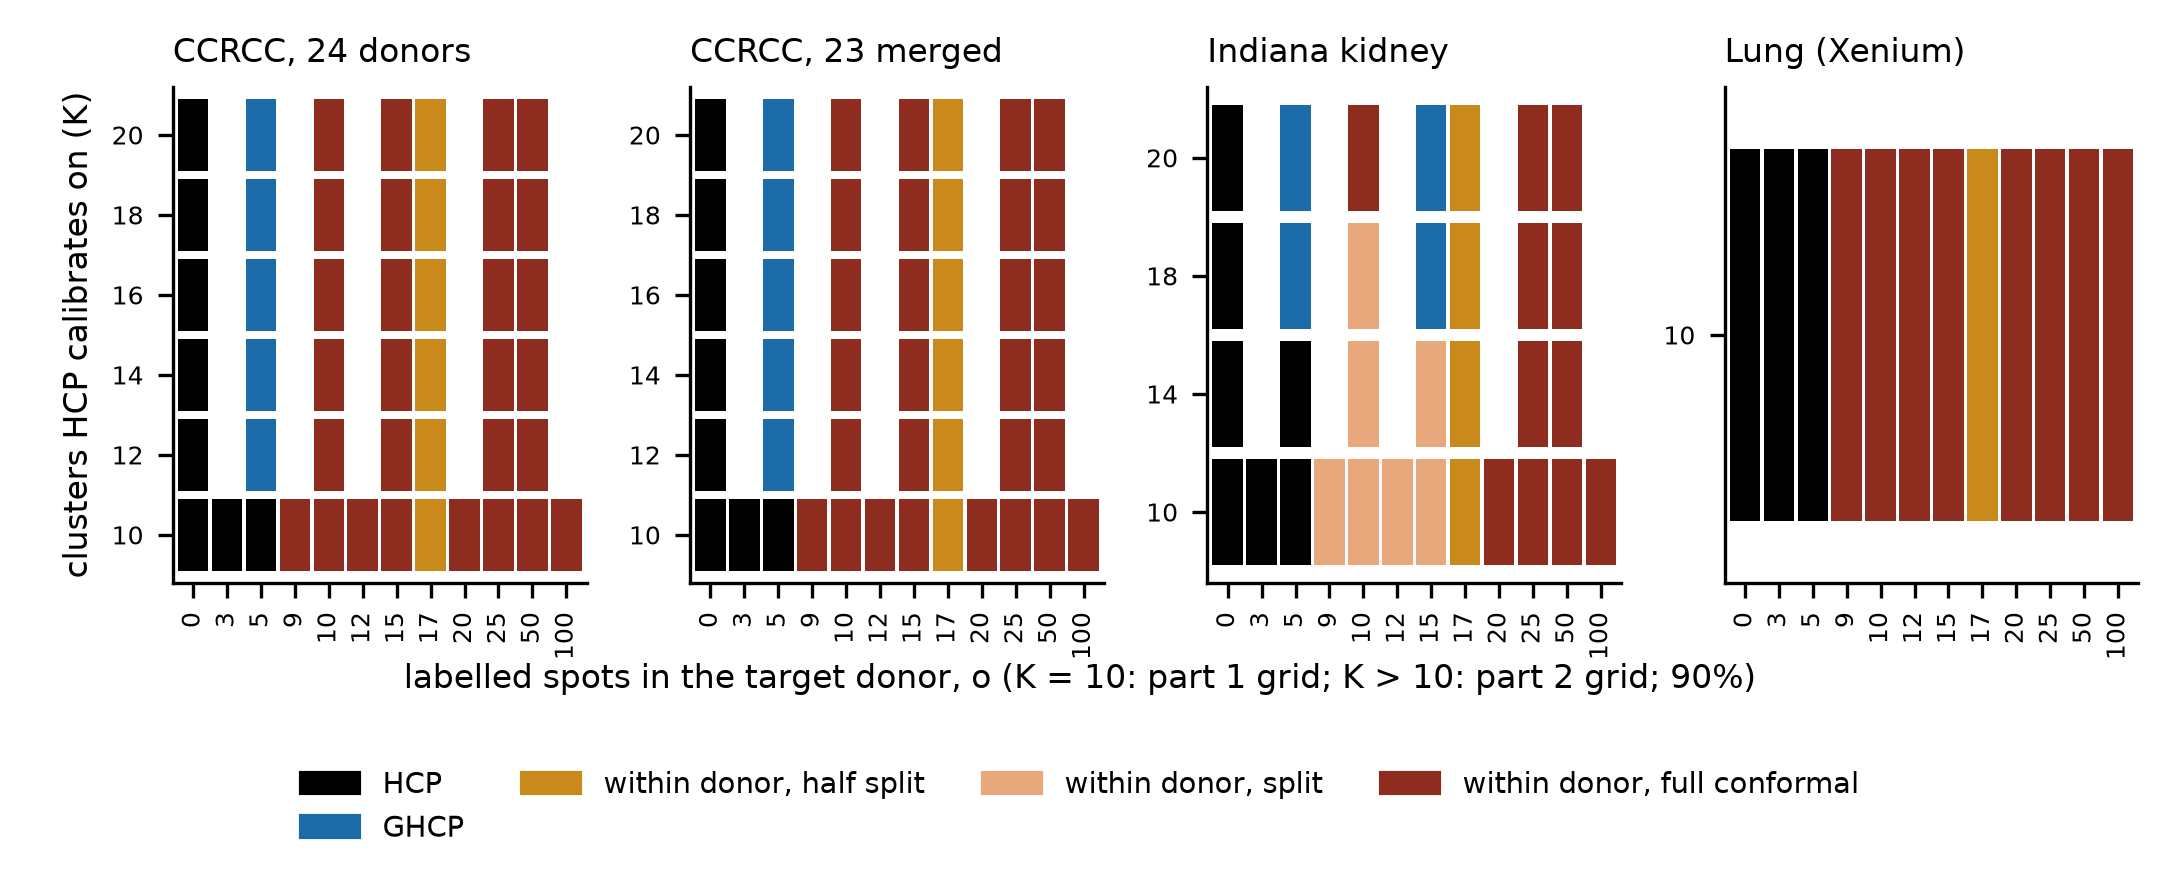
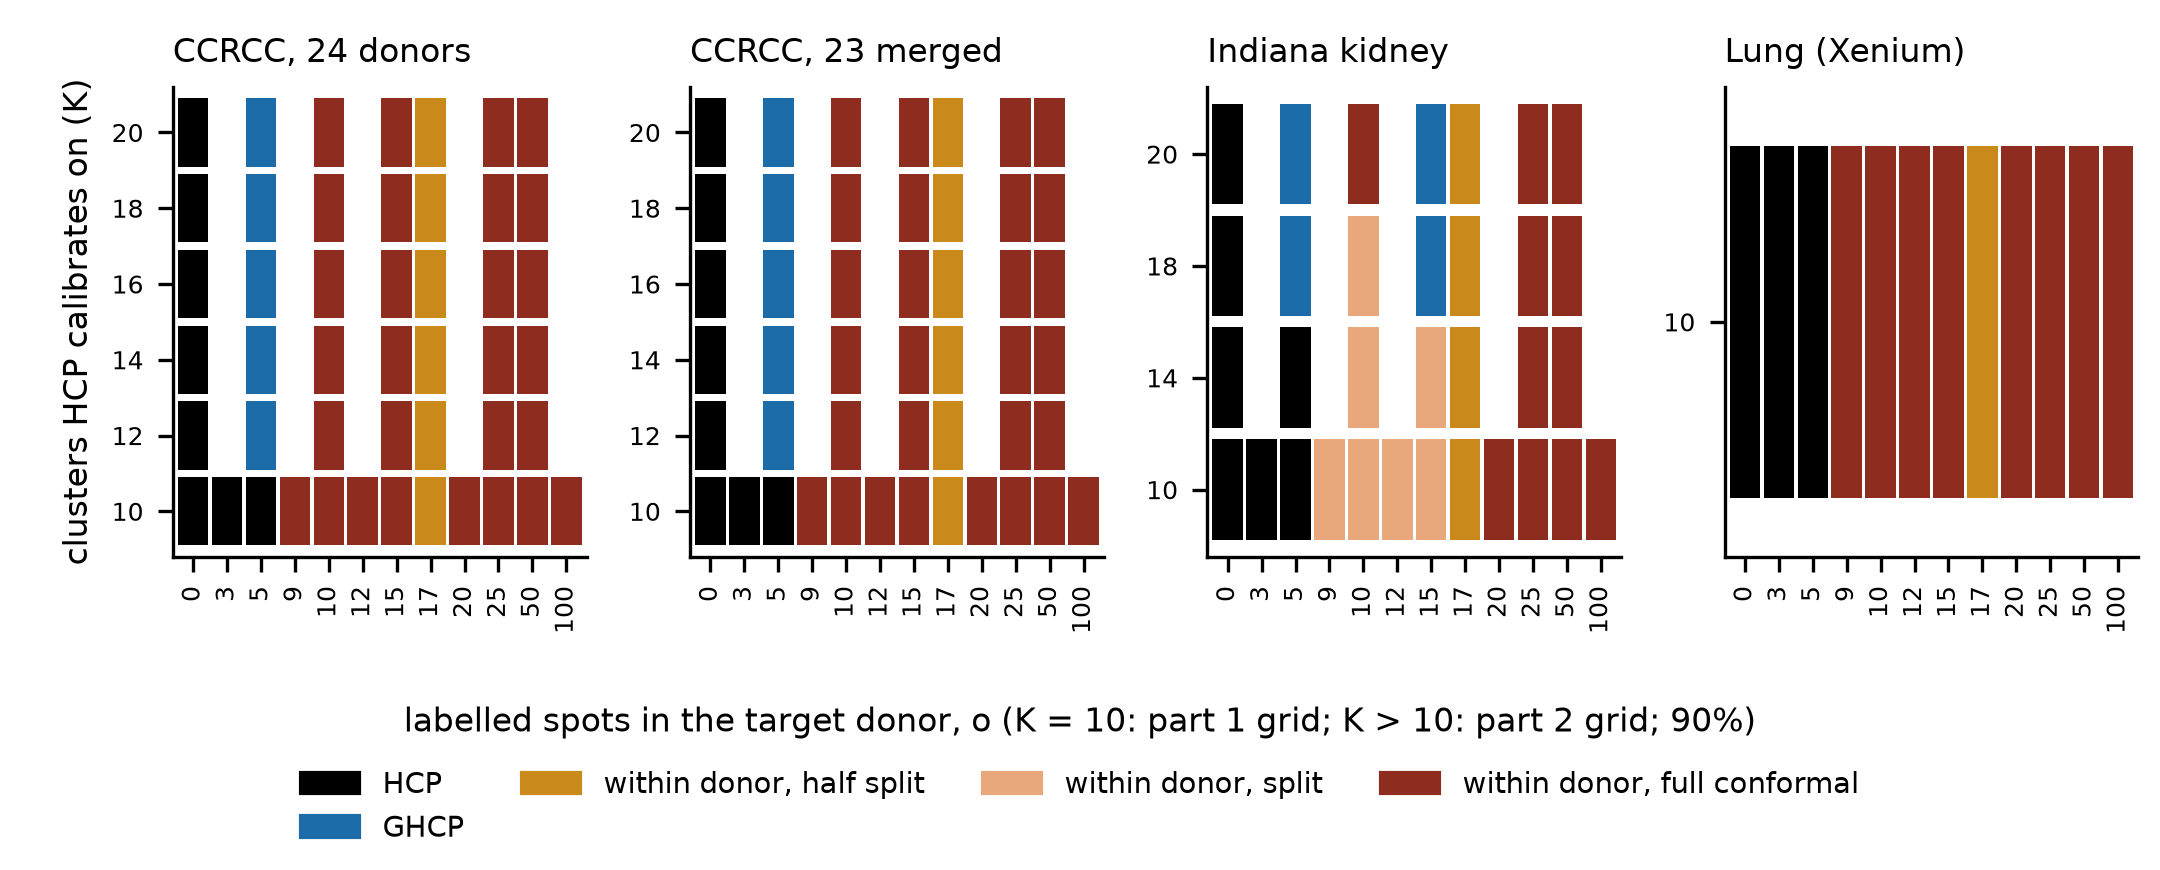
W5 figures: shared x labels clear of the rotated ticks; provenance md5s refreshed

diff --git a/code/scripts/round5_conf_w5_map.py b/code/scripts/round5_conf_w5_map.py
@@ -262,9 +262,9 @@ def figures(W):
         used |= tiles(ax, S[S.share == s], f"share {s:g}")
         ax.tick_params(axis="x", labelrotation=90)
     np.atleast_1d(axes)[0].set_ylabel(ylab)
-    fig.supxlabel("labelled units in the target cluster, o (normal tails, 21 units per cluster, no scale spread, 90%; share = between-cluster share of score variance)", y=0.2, fontsize=7)
+    fig.supxlabel("labelled units in the target cluster, o (normal tails, 21 units per cluster, no scale spread, 90%; share = between-cluster share of score variance)", y=0.15, fontsize=7)
     legend(fig, used)
-    fig.subplots_adjust(left=0.08, right=0.99, top=0.9, bottom=0.33)
+    fig.subplots_adjust(left=0.08, right=0.99, top=0.9, bottom=0.36)
     fig.savefig(os.path.join(OUT, "fig_w5_map_simulation.png")); plt.close(fig)
     # GHCP designs: fixed, Poisson, census; 90%
     G = W[(W.source == "ghcp_designs") & (W.alpha == 0.1)]
@@ -291,9 +291,9 @@ def figures(W):
         used |= tiles(ax, R[R.task == t], names.get(t, t))
         ax.tick_params(axis="x", labelrotation=90)
     axes[0].set_ylabel(ylab + " (K)")
-    fig.supxlabel("labelled spots in the target donor, o (K = 10: part 1 grid; K > 10: part 2 grid; 90%)", y=0.2, fontsize=8)
+    fig.supxlabel("labelled spots in the target donor, o (K = 10: part 1 grid; K > 10: part 2 grid; 90%)", y=0.15, fontsize=8)
     legend(fig, used)
-    fig.subplots_adjust(left=0.08, right=0.99, top=0.9, bottom=0.33)
+    fig.subplots_adjust(left=0.08, right=0.99, top=0.9, bottom=0.36)
     fig.savefig(os.path.join(OUT, "fig_w5_map_real_data.png")); plt.close(fig)
 
 
